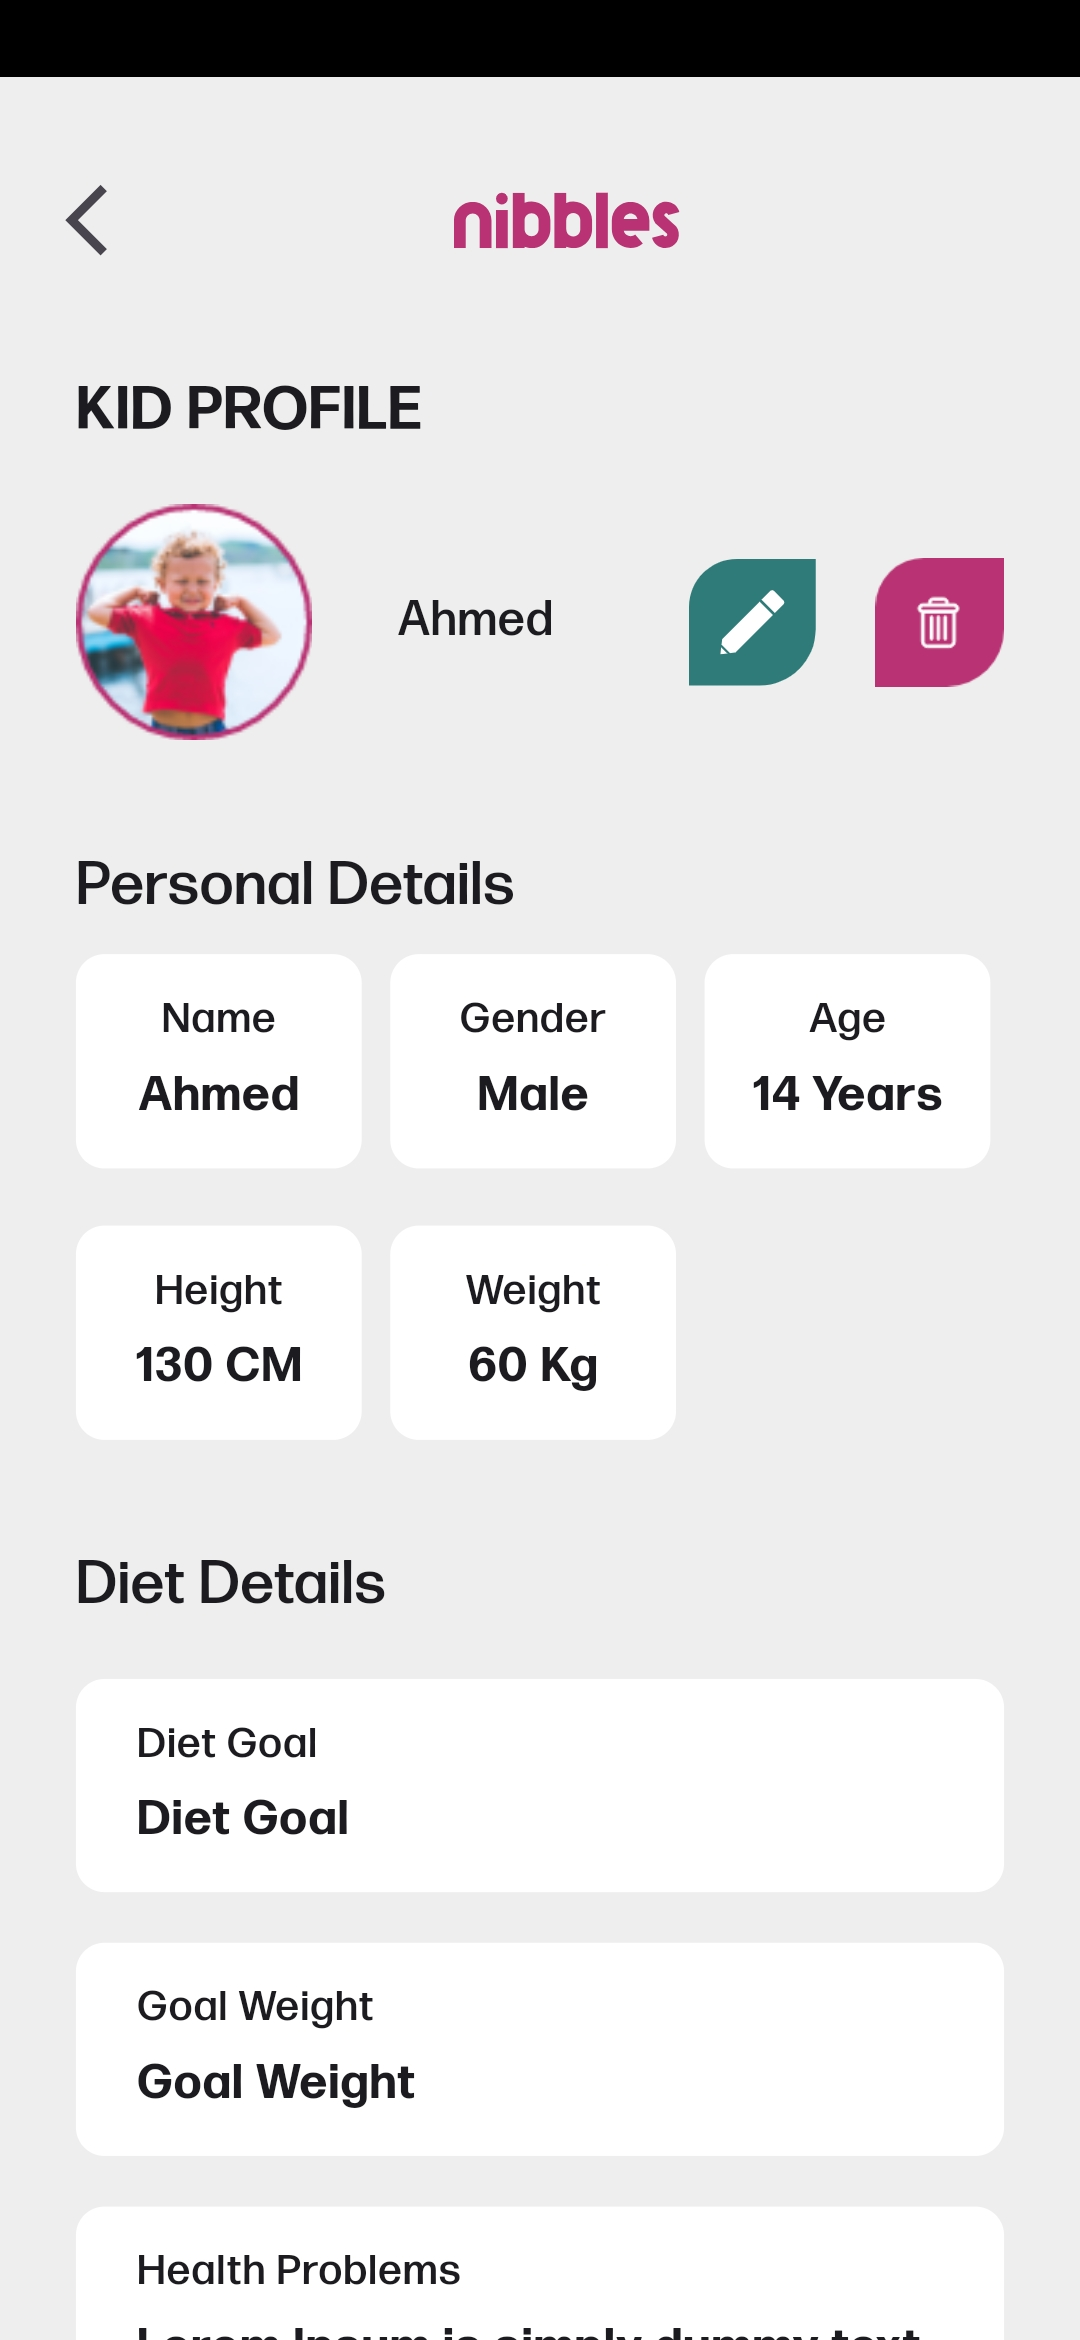
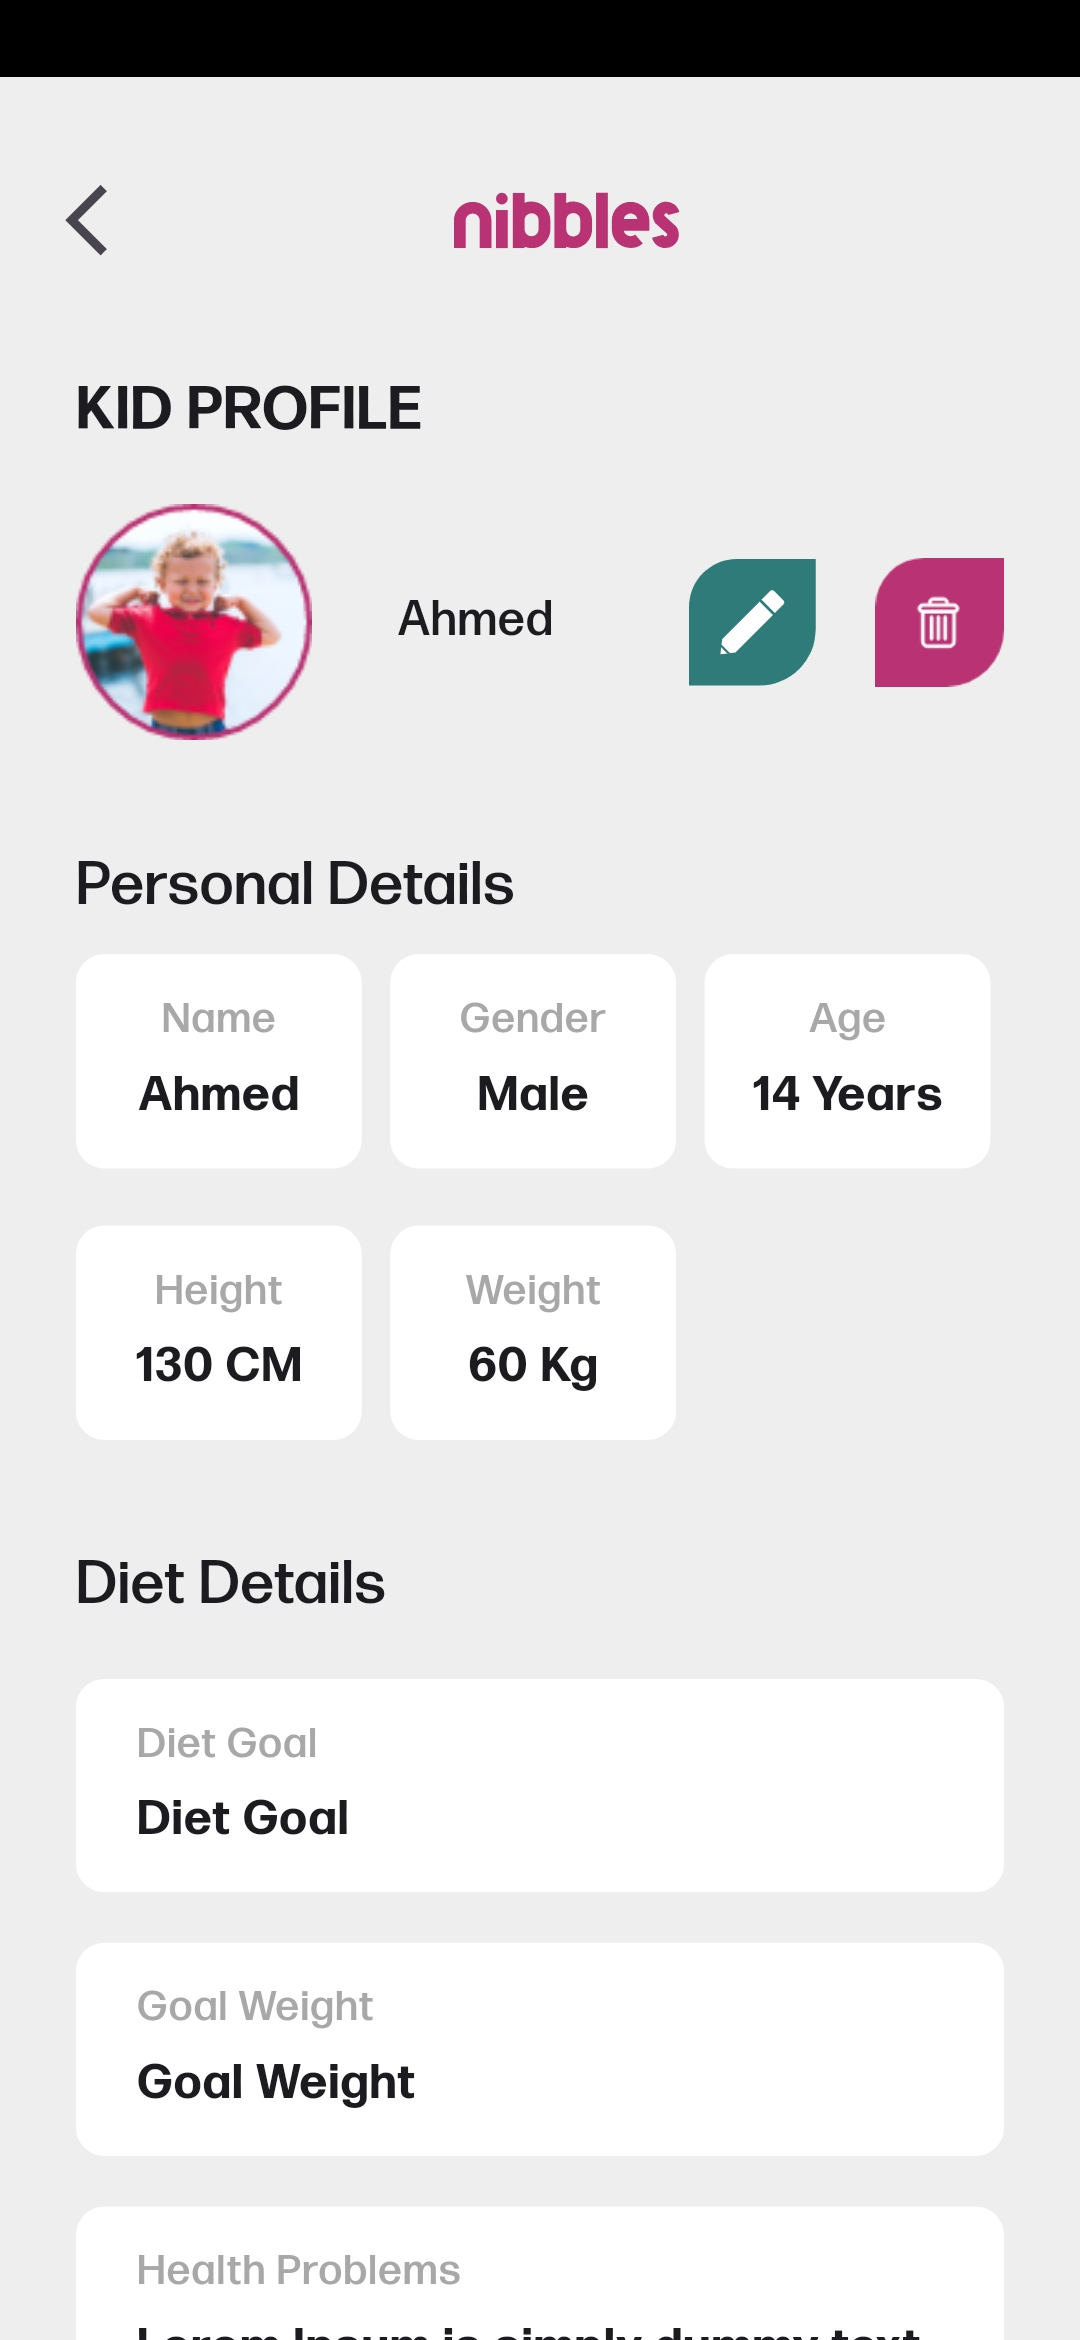
kid-profile

diff --git a/lib/presentation/widgets/kid_profile_components.dart b/lib/presentation/widgets/kid_profile_components.dart
@@ -1,5 +1,6 @@
 import 'package:flutter/material.dart';
 import 'package:nibbles_ecommerce/configs/configs.dart';
+import 'package:nibbles_ecommerce/core/core.dart';
 
 Widget personalDetailsItem({
   required String topText,
@@ -20,7 +21,7 @@ Widget personalDetailsItem({
         children: [
           Text(
             topText,
-            style: AppText.b1,
+            style: AppText.b1?.copyWith(color: AppColors.greyText),
           ),
           Space.yf(.2),
           Text(
@@ -53,7 +54,7 @@ Widget dietDetailsItem({
       children: [
         Text(
           topText,
-          style: AppText.b1,
+          style: AppText.b1?.copyWith(color: AppColors.greyText),
         ),
         Space.yf(.2),
         Text(
@@ -65,34 +66,59 @@ Widget dietDetailsItem({
   );
 }
 
-Widget foodDetailsItem({
-  required String topText,
-  required String bottomText,
-}) {
+Widget foodDetailsItem(
+    {required String topText,
+    required List<String> bottomTexts,
+    required BuildContext context}) {
   return Container(
     //  height: AppDimensions.normalize(30),
     width: double.infinity,
-    padding: Space.all(1.2, .7),
+    padding: Space.all(.8, 1),
     decoration: BoxDecoration(
-      color: Colors.white,
-      borderRadius: BorderRadius.circular(
-        AppDimensions.normalize(4),
-      ),
-    ),
+        color: Colors.white,
+        borderRadius: BorderRadius.circular(
+          AppDimensions.normalize(5),
+        ),
+        border: Border.all(color: AppColors.lightGrey)),
     child: Column(
       mainAxisAlignment: MainAxisAlignment.center,
       crossAxisAlignment: CrossAxisAlignment.start,
       children: [
         Text(
           topText,
-          style: AppText.b1,
+          style: AppText.b1?.copyWith(color: AppColors.greyText),
+        ),
+        Space.yf(.9),
+        SizedBox(
+          height: AppDimensions.normalize(15),
+          child: ListView.separated(
+            itemCount: bottomTexts.length,
+            scrollDirection: Axis.horizontal,
+            itemBuilder: (context, index) {
+              return bottomTextContainer(bottomTexts[index]);
+            },
+            separatorBuilder: (BuildContext context, int index) {
+              return Space.xf(.5);
+            },
+          ),
         ),
         Space.yf(.2),
-        Text(
-          bottomText,
-          style: AppText.h3b,
-        ),
       ],
+    ),
+  );
+}
+
+Widget bottomTextContainer(String bottomText) {
+  return Container(
+    padding: Space.all(.8, 0),
+    decoration: BoxDecoration(
+        color: AppColors.lightGrey,
+        borderRadius: BorderRadius.circular(AppDimensions.normalize(10))),
+    child: Center(
+      child: Text(
+        bottomText,
+        style: AppText.b1?.copyWith(color: Colors.white),
+      ),
     ),
   );
 }

diff --git a/lib/presentation/screens/kid_profile.dart b/lib/presentation/screens/kid_profile.dart
@@ -1,5 +1,4 @@
 import 'package:flutter/material.dart';
-import 'package:flutter_svg/flutter_svg.dart';
 import 'package:nibbles_ecommerce/configs/configs.dart';
 import 'package:nibbles_ecommerce/models/models.dart';
 import 'package:nibbles_ecommerce/presentation/widgets.dart';
@@ -97,6 +96,17 @@ class KidProfileScreen extends StatelessWidget {
                 "Food Details",
                 style: AppText.h2,
               ),
+              Space.yf(.7),
+              foodDetailsItem(
+                  topText: "Dislikes",
+                  bottomTexts: ["Cilantro", "Dry Tomatoes"],
+                  context: context),
+              Space.yf(),
+              foodDetailsItem(
+                  topText: "Food allergies",
+                  bottomTexts: ["Peanuts", "Wheat Allergy"],
+                  context: context),
+              Space.yf(1.7),
             ],
           ),
         ),

diff --git a/lib/presentation/screens/contact.dart b/lib/presentation/screens/contact.dart
@@ -72,8 +72,11 @@ class ContactScreen extends StatelessWidget {
                                                         BlendMode.srcIn),
                                               ),
                                               Space.xf(.8),
-                                              customUndelinedText(AppText.b1,
-                                                  AppStrings.contactInfo[i])
+                                              customUnderLinedText(
+                                                AppText.b1,
+                                                AppStrings.contactInfo[i],
+                                                false,
+                                              )
                                             ],
                                           ),
                                         ),

diff --git a/lib/presentation/widgets/auth_screens_components.dart b/lib/presentation/widgets/auth_screens_components.dart
@@ -1,5 +1,6 @@
 import 'package:flutter/material.dart';
 import 'package:flutter_svg/svg.dart';
+import 'package:nibbles_ecommerce/presentation/widgets.dart';
 
 import '../../configs/configs.dart';
 import '../../core/constants/assets.dart';
@@ -11,13 +12,13 @@ Widget authTopColumn(bool isFromSignUp) {
       Row(
         mainAxisAlignment: MainAxisAlignment.end,
         children: [
-          Text(
-            "Continue as\na guest",
-            style: AppText.b2?.copyWith(
+          customUnderLinedText(
+            AppText.b2?.copyWith(
               decoration: TextDecoration.underline,
               decorationThickness: 3.5,
             ),
-            textAlign: TextAlign.end,
+            "Continue as\na guest",
+            true,
           ),
           Space.xf()
         ],

diff --git a/lib/presentation/widgets/custom_underlined_text.dart b/lib/presentation/widgets/custom_underlined_text.dart
@@ -1,7 +1,10 @@
 import 'package:flutter/material.dart';
 
-
-Widget customUndelinedText(TextStyle? style, String text) {
+Widget customUnderLinedText(
+  TextStyle? style,
+  String text,
+  bool isFromAuth,
+) {
   return Text(
     text,
     style: style?.copyWith(
@@ -12,5 +15,6 @@ Widget customUndelinedText(TextStyle? style, String text) {
       decoration: TextDecoration.underline,
       decorationThickness: 3.5,
     ),
+    textAlign: isFromAuth ? TextAlign.end : null,
   );
 }

diff --git a/lib/core/app/app.dart b/lib/core/app/app.dart
@@ -6,10 +6,7 @@ import 'package:flutter_bloc/flutter_bloc.dart';
 import 'package:nibbles_ecommerce/application/application.dart';
 import 'package:nibbles_ecommerce/repositories/repositories.dart';
 
-import '../constants/colors.dart';
-import '../constants/strings.dart';
-import '../functions/fcm.dart';
-import '../router/app_router.dart';
+import '../core.dart';
 
 class MyApp extends StatefulWidget {
   const MyApp({super.key});
